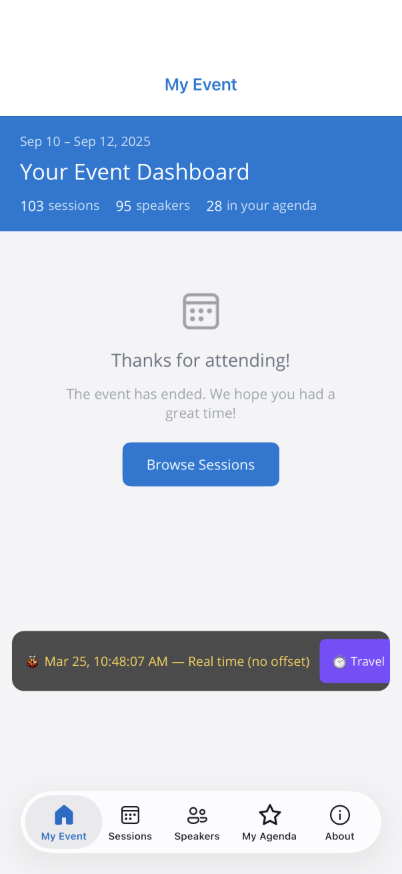
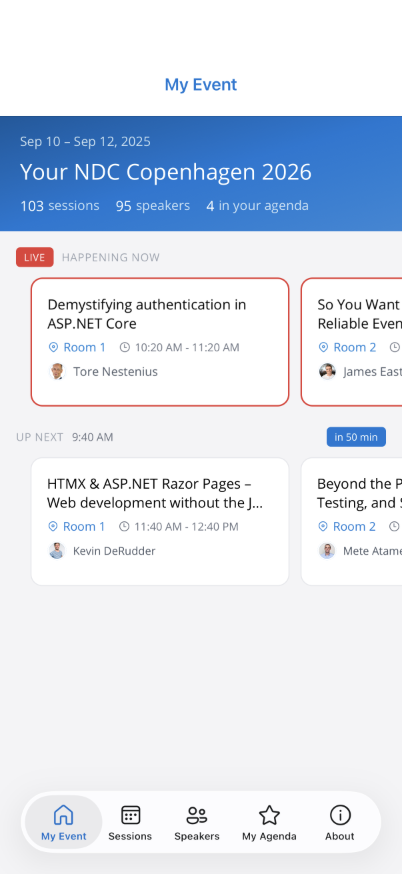
fix: startup crash on physical iOS device
GetAwaiter().GetResult() on the main thread deadlocked the iOS
synchronization context, causing the watchdog to SIGKILL the app.

Replace with synchronous File.ReadAllText for the config load, with
a Task.Run fallback if the direct path isn't available. Branding is
still applied before any pages render.

diff --git a/src/Conference.Maui/Services/EventConfigService.cs b/src/Conference.Maui/Services/EventConfigService.cs
@@ -18,6 +18,43 @@ public sealed class EventConfigService : IEventConfigService
 
     public EventConfig Config { get; private set; } = new();
 
+    /// <summary>
+    /// Loads config synchronously — safe to call from CreateWindow on the main thread.
+    /// Uses synchronous file I/O to avoid deadlocking the iOS synchronization context.
+    /// </summary>
+    public void Initialize()
+    {
+        try
+        {
+            var path = Path.Combine(AppContext.BaseDirectory, "event_config.json");
+
+            // On iOS the file is in the app bundle; try direct path first, then the async API on a thread pool thread
+            if (File.Exists(path))
+            {
+                var json = File.ReadAllText(path);
+                var config = JsonSerializer.Deserialize<EventConfig>(json, s_jsonOptions);
+                if (config is not null)
+                    Config = config;
+            }
+            else
+            {
+                // Fallback: run async load on thread pool to avoid main-thread deadlock
+                var config = Task.Run(async () =>
+                {
+                    using var stream = await FileSystem.OpenAppPackageFileAsync("event_config.json");
+                    return await JsonSerializer.DeserializeAsync<EventConfig>(stream, s_jsonOptions);
+                }).GetAwaiter().GetResult();
+
+                if (config is not null)
+                    Config = config;
+            }
+        }
+        catch (Exception ex)
+        {
+            Debug.WriteLine($"[EventConfigService] Failed to load event_config.json: {ex.Message}");
+        }
+    }
+
     public async Task InitializeAsync()
     {
         try

diff --git a/src/Conference.Maui/App.xaml.cs b/src/Conference.Maui/App.xaml.cs
@@ -33,7 +33,7 @@ public partial class App : Application
         var configService = sp?.GetService<IEventConfigService>();
         if (configService is Services.EventConfigService ecs)
         {
-            ecs.InitializeAsync().GetAwaiter().GetResult();
+            ecs.Initialize();
             ecs.ApplyBranding(Resources);
         }
 
